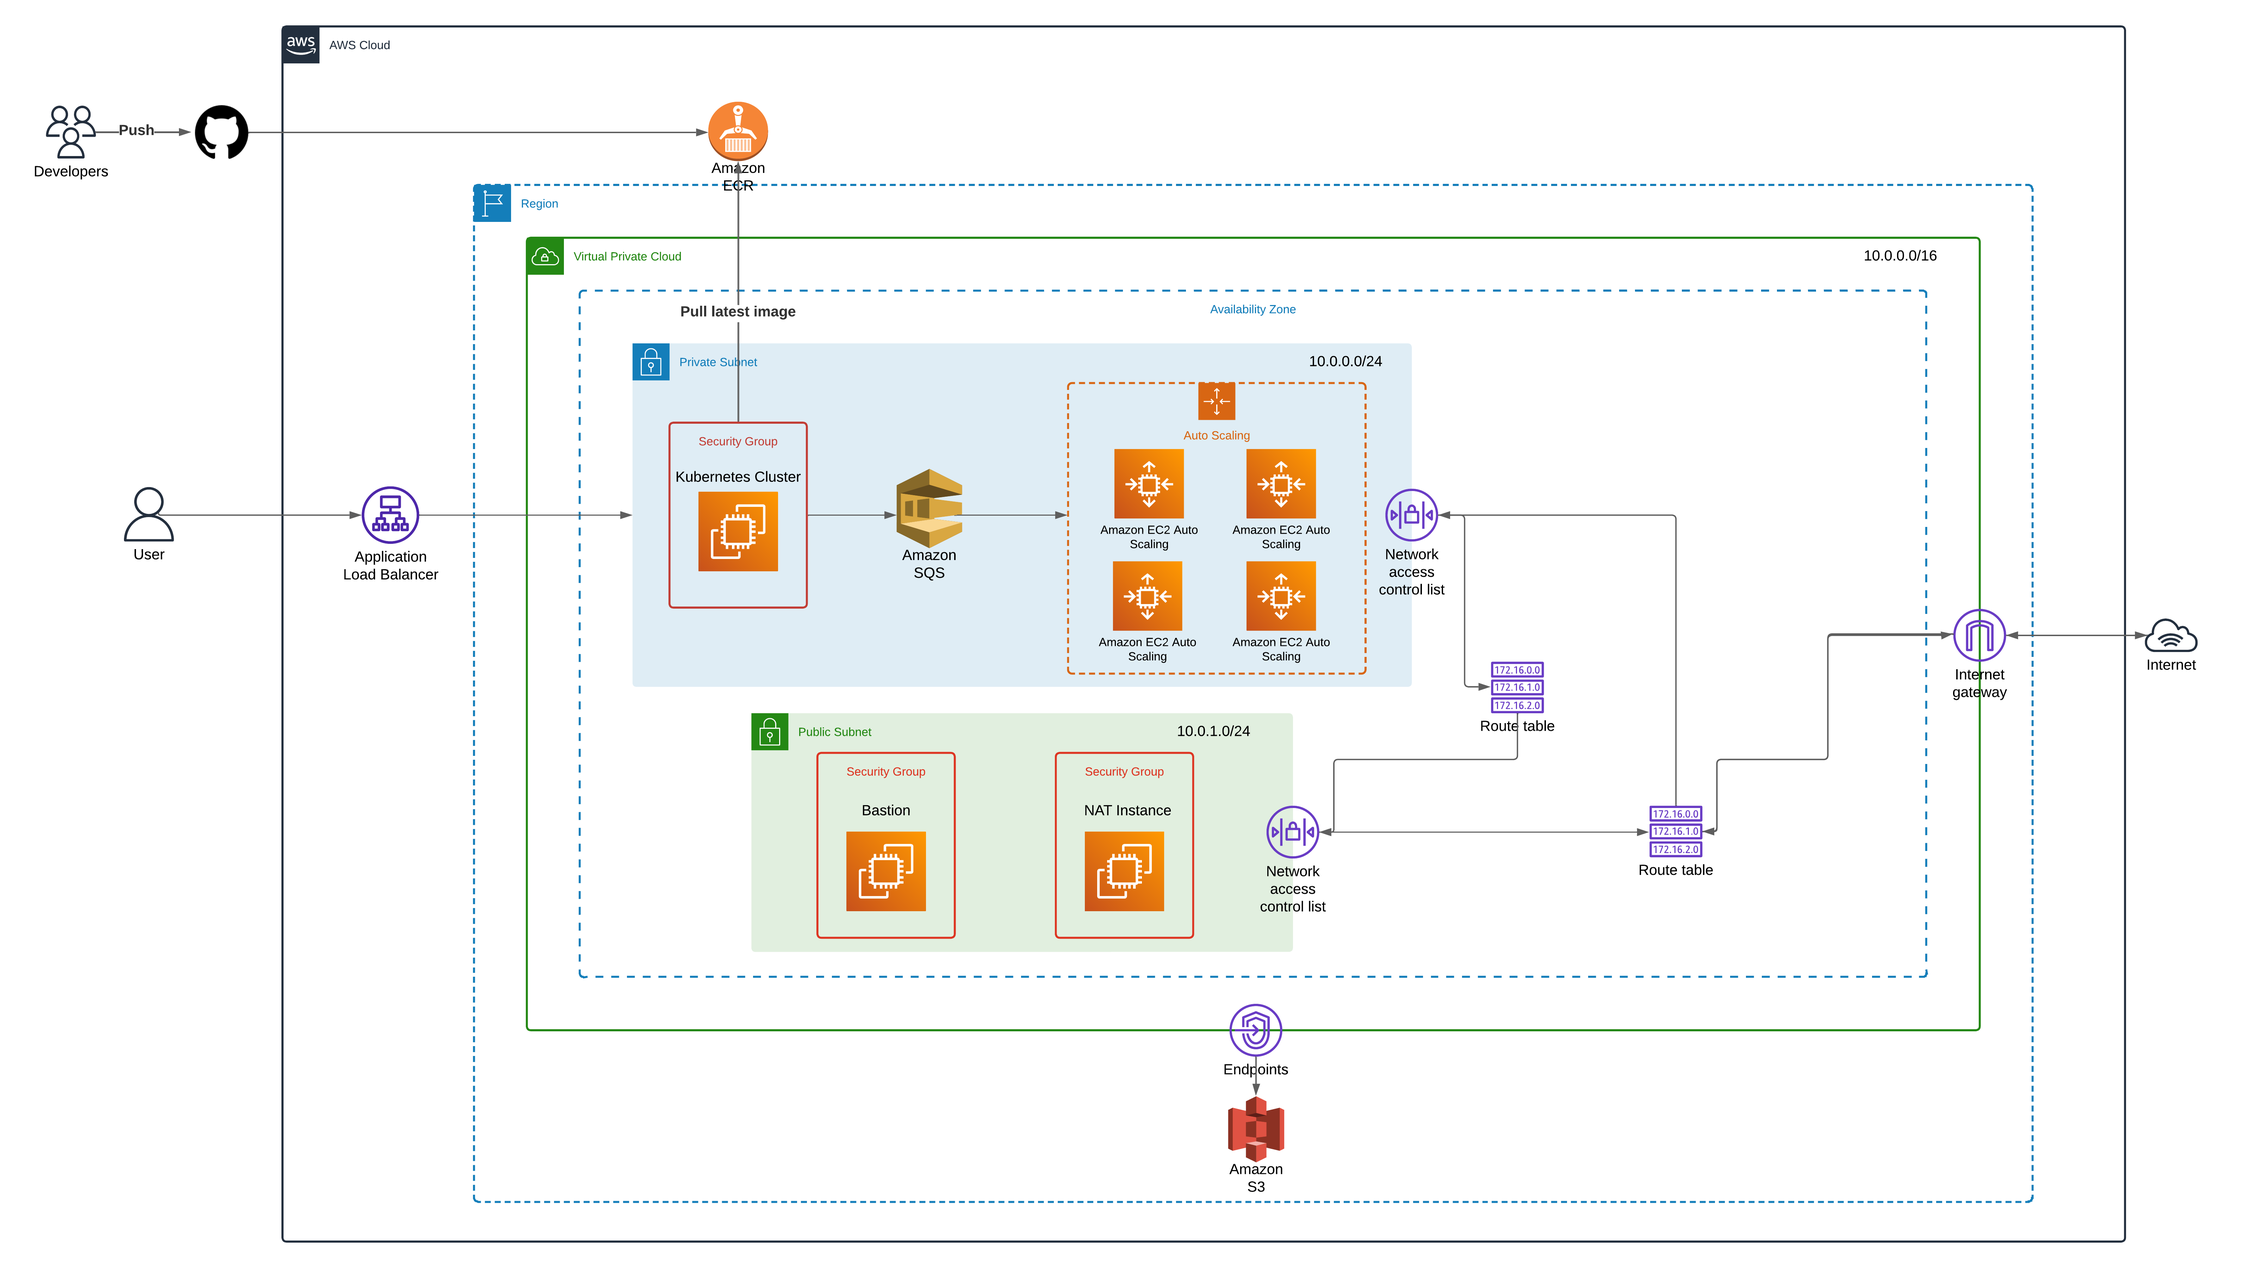
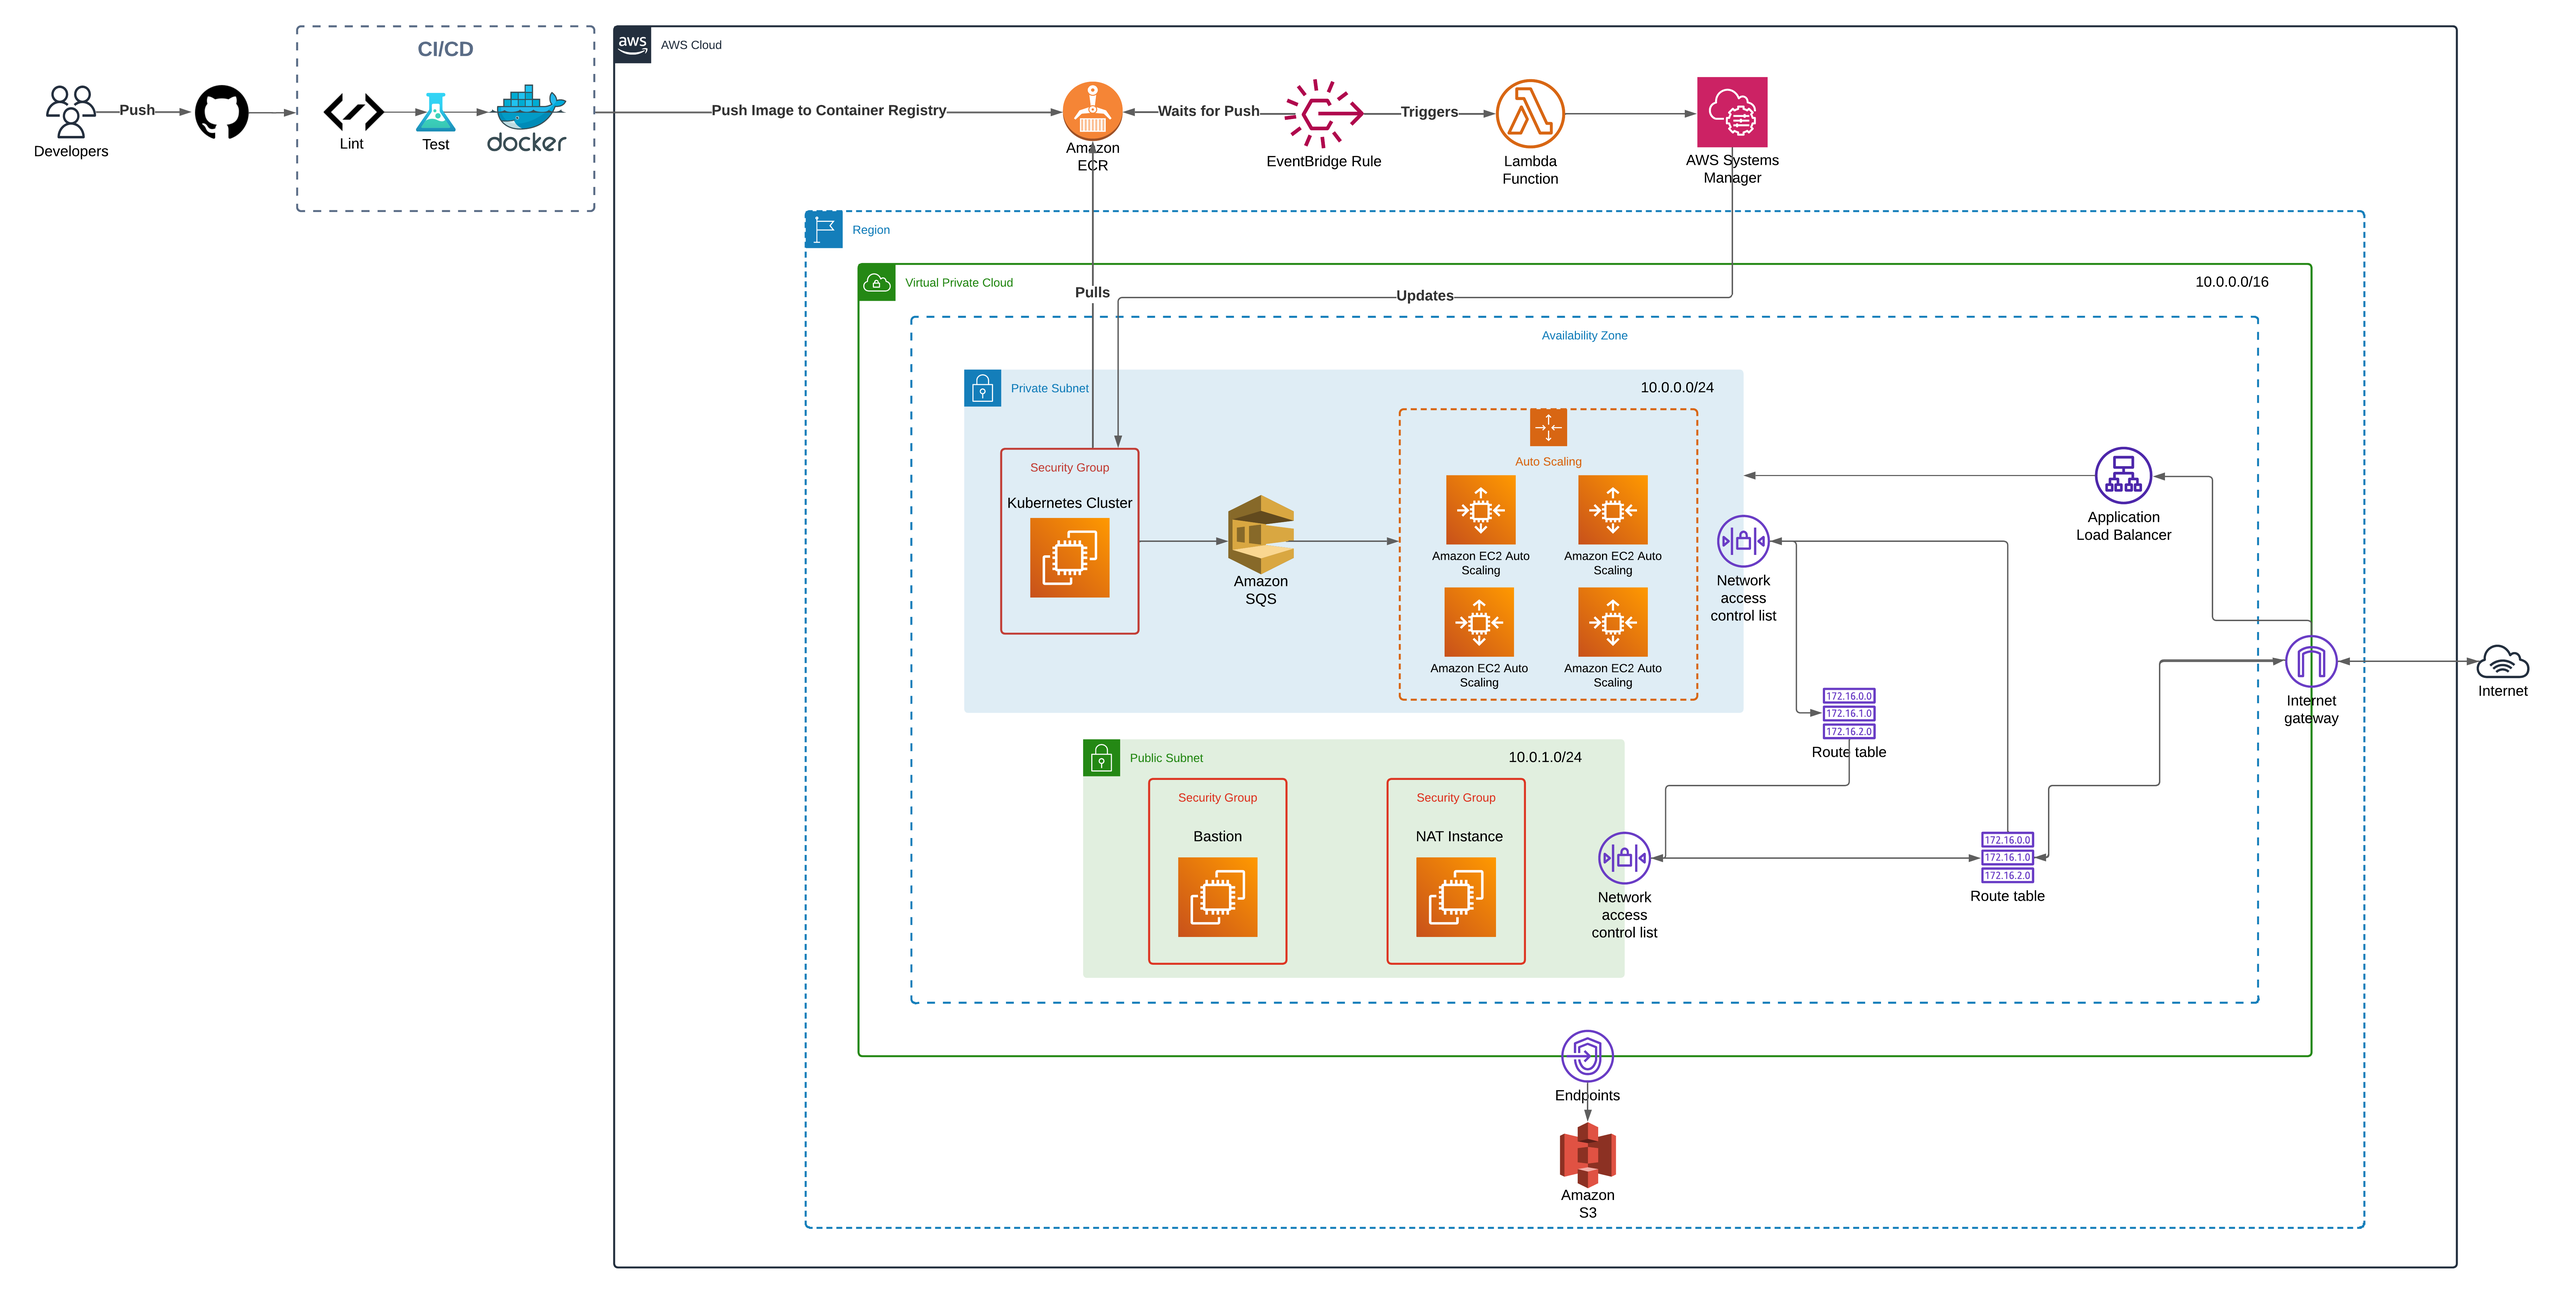
feat(IaC): Add Lambda function, SSM and EventBridge rule for automatic image pulling from ECR

diff --git a/terraform/modules/lambda/lambda.py b/terraform/modules/lambda/lambda.py
@@ -1,0 +1,50 @@
+import boto3
+import time
+from botocore.exceptions import ClientError
+import os
+
+def handler(event, context):
+    ssm_client = boto3.client('ssm')
+
+    instance_id = os.getenv('instance_id')
+
+    command = 'kubectl set image deployment/statstify-deployment statstify=public.ecr.aws/statstify/statstify:latest'
+
+    try:
+        response = ssm_client.send_command(
+            InstanceIds=[instance_id],
+            DocumentName="AWS-RunShellScript",
+            Parameters={'commands': [command]}
+        )
+
+        command_id = response['Command']['CommandId']
+
+        while True:
+            try:
+                output = ssm_client.get_command_invocation(
+                    CommandId=command_id,
+                    InstanceId=instance_id,
+                )
+
+                if output['Status'] in ['Success', 'Failed', 'Cancelled', 'TimedOut']:
+                    break
+
+                time.sleep(2)
+
+            except ClientError as e:
+                if e.response['Error']['Code'] == 'InvocationDoesNotExist':
+                    print("Command is not yet invoked, retrying...")
+                    time.sleep(2)
+                else:
+                    raise e
+
+        return {
+            'statusCode': 200,
+            'body': output['Status']
+        }
+
+    except ClientError as e:
+        return {
+            'statusCode': 500,
+            'body': f"An error occurred: {str(e)}"
+        }
